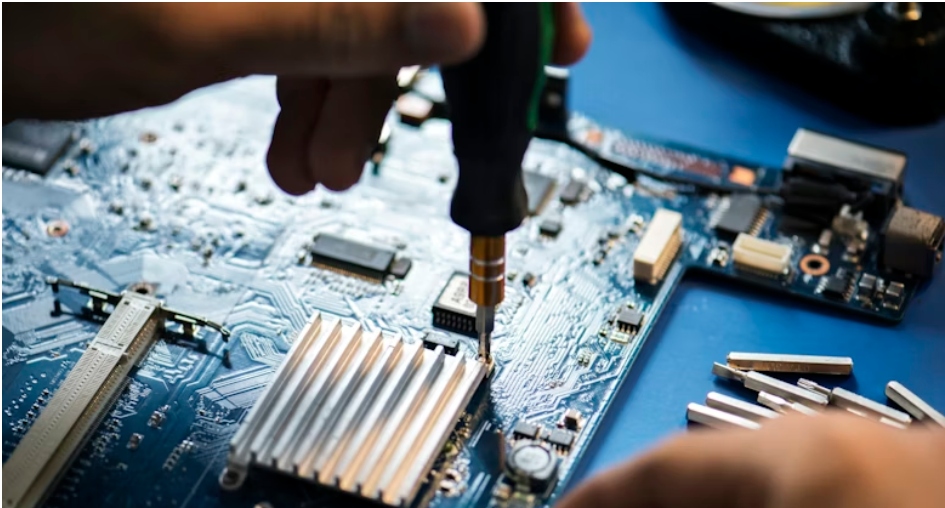
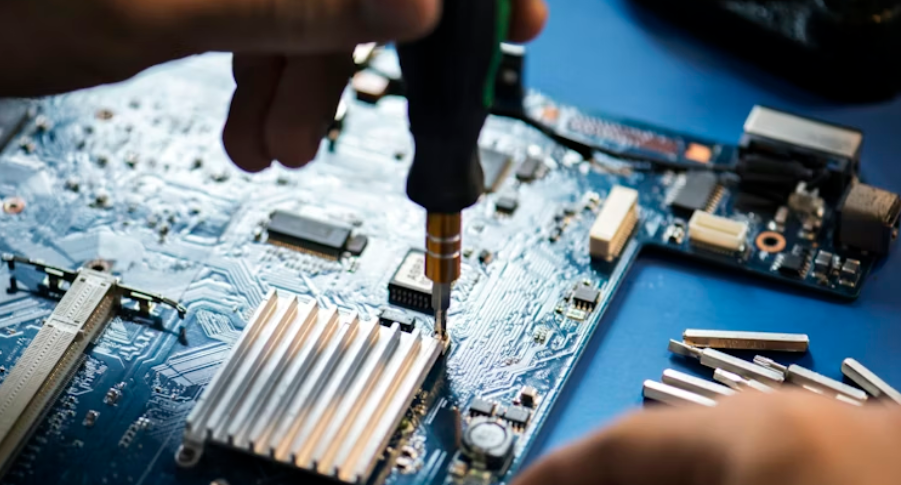
Hero con revision1, imagenes optimizadas

diff --git a/index.html b/index.html
@@ -72,7 +72,7 @@
           </div>
         </div>
         <div class="hero-card reveal">
-          <img src="img/foto1.png" alt="Reparación de PC en taller" onerror="this.style.display='none'" />
+          <img src="img/revision1.png" alt="Reparación de PC en taller" onerror="this.style.display='none'" />
           <div class="hero-card-header"><strong>🔥 Más pedido</strong><span class="price-tag">desde $30.000</span></div>
           <ul>
             <li>Limpieza + pasta térmica + control de temperatura</li>
